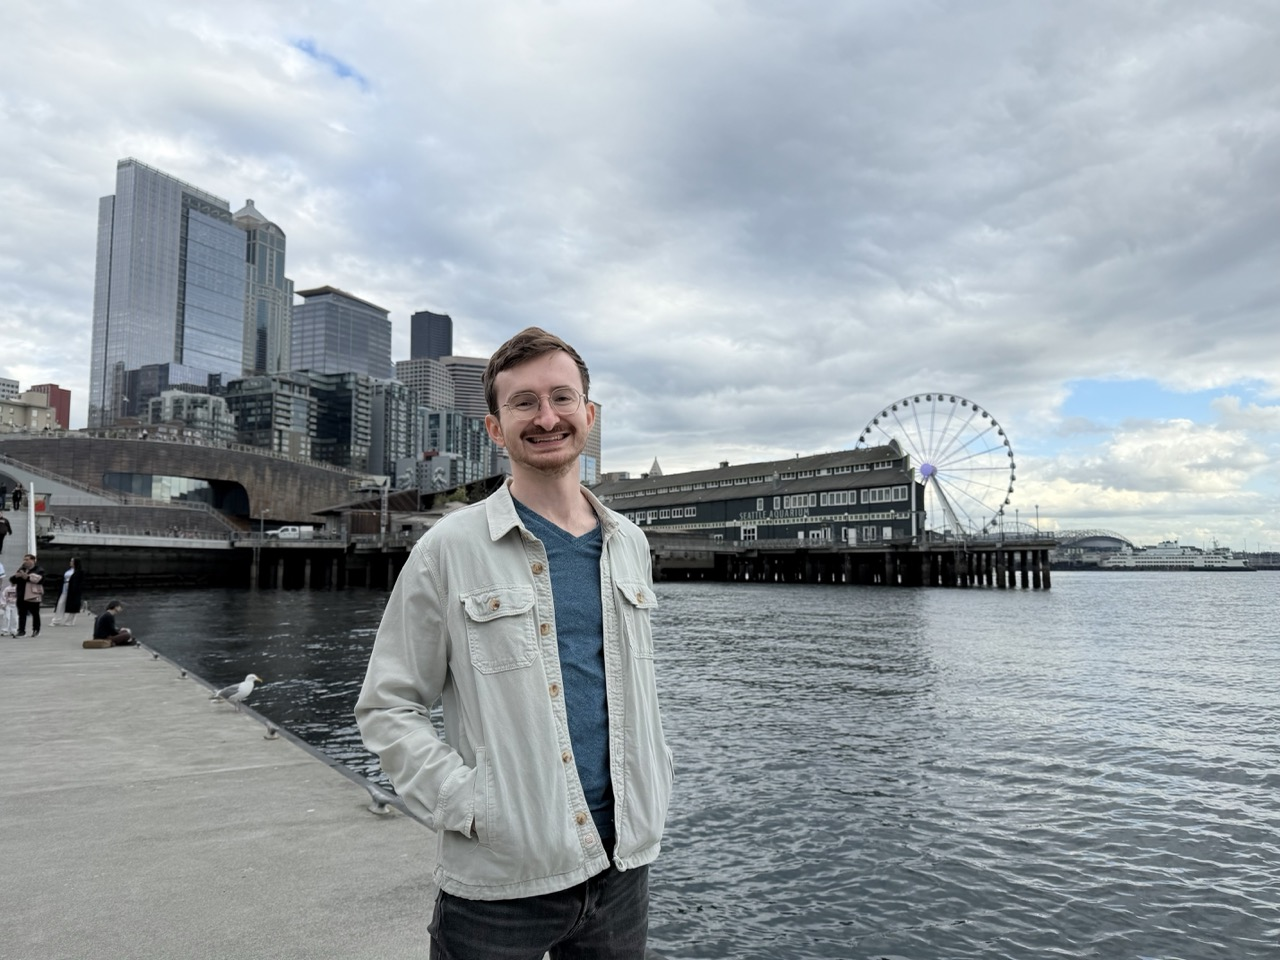
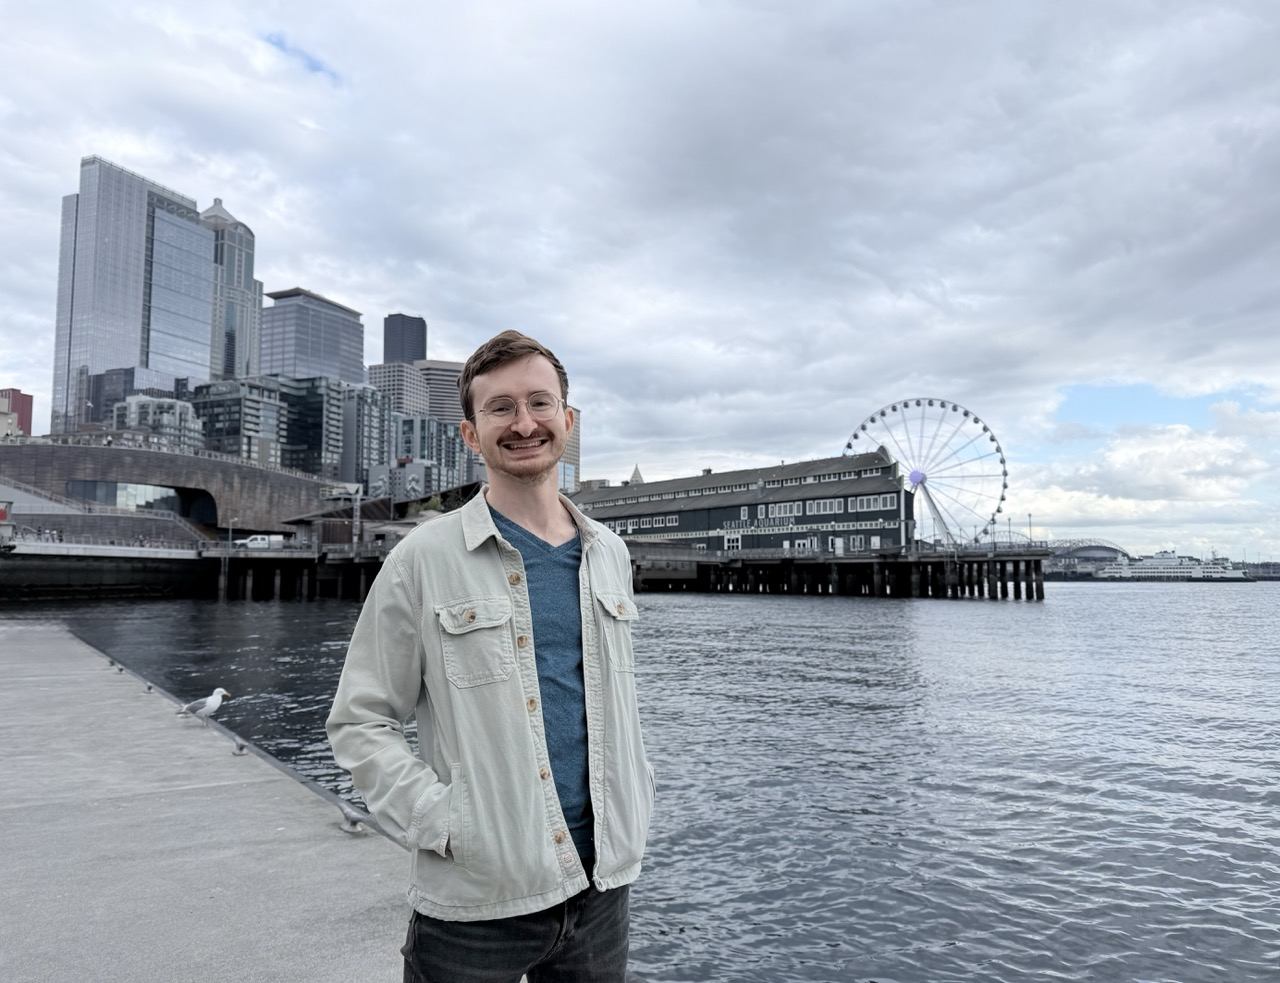
tuning about

diff --git a/src/App.css b/src/App.css
@@ -232,6 +232,7 @@ hr{
   background: linear-gradient(to bottom right, rgba(0, 0, 0, 0.26), rgba(0, 0, 0, 0), rgba(0, 0, 0, 0), rgba(0, 0, 0, 0.308));
   box-shadow: inset 0 0 100px rgba(0, 0, 0, 0.719);
 }
+
 .content h5{
   display: none;
 }
@@ -426,6 +427,18 @@ section{
   .cardcontainer:nth-of-type(4n+1) .card{
     /*inverse golden ratio to maintain height*/
     padding-bottom: 75.61%;
+  }
+}
+
+/*Avoid Mike Wazowski*/
+@media all and (max-width: 670px) {
+  .About .content .cover-details-container h3 {
+    width: 135px;
+  }
+}
+@media all and (max-width: 400px) {
+  .About .content .cover-details-container h3 {
+    width: 100px;
   }
 }
 /*#endregion MediaScreenSizes*/

diff --git a/src/App.js b/src/App.js
@@ -67,7 +67,7 @@ function Button(props){
 function Card(props){
   var p = projects.find(function(proj){return proj.sku === props.sku; });
   return(
-    <div className="cardcontainer">
+    <div className={"cardcontainer " + p.sku}>
         <div className="card foreground rounded16 shadow3D">
           {p.banner && <Banner banner={p.banner}/>}
           <div className="roundedmask rounded16">
